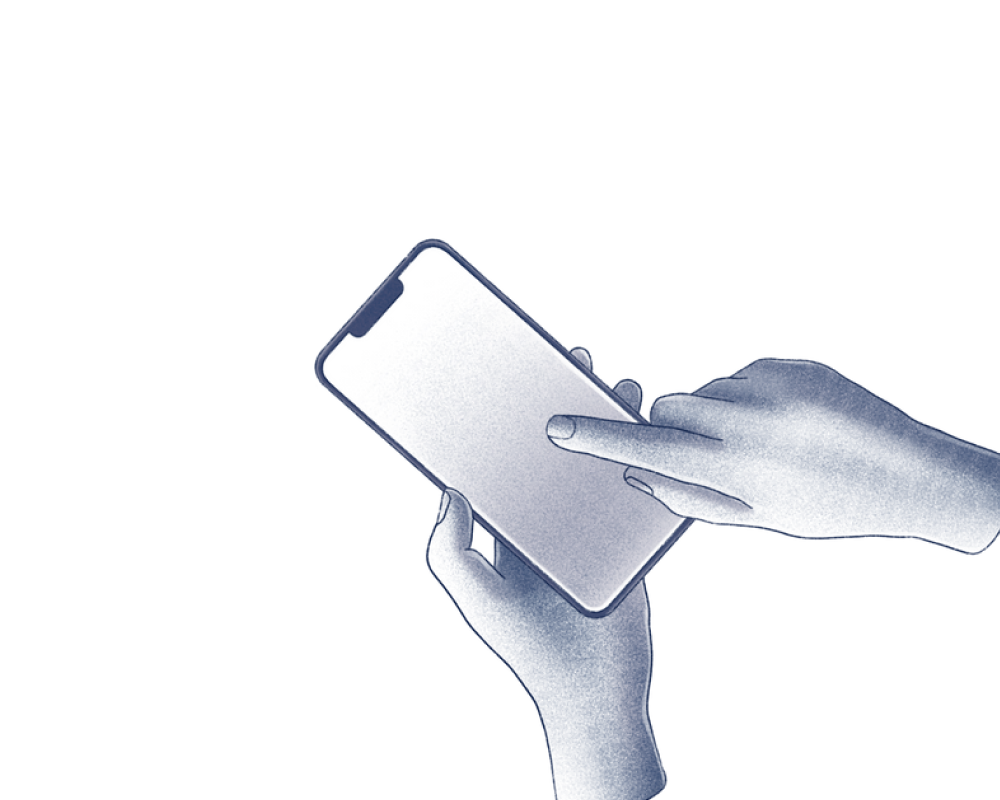
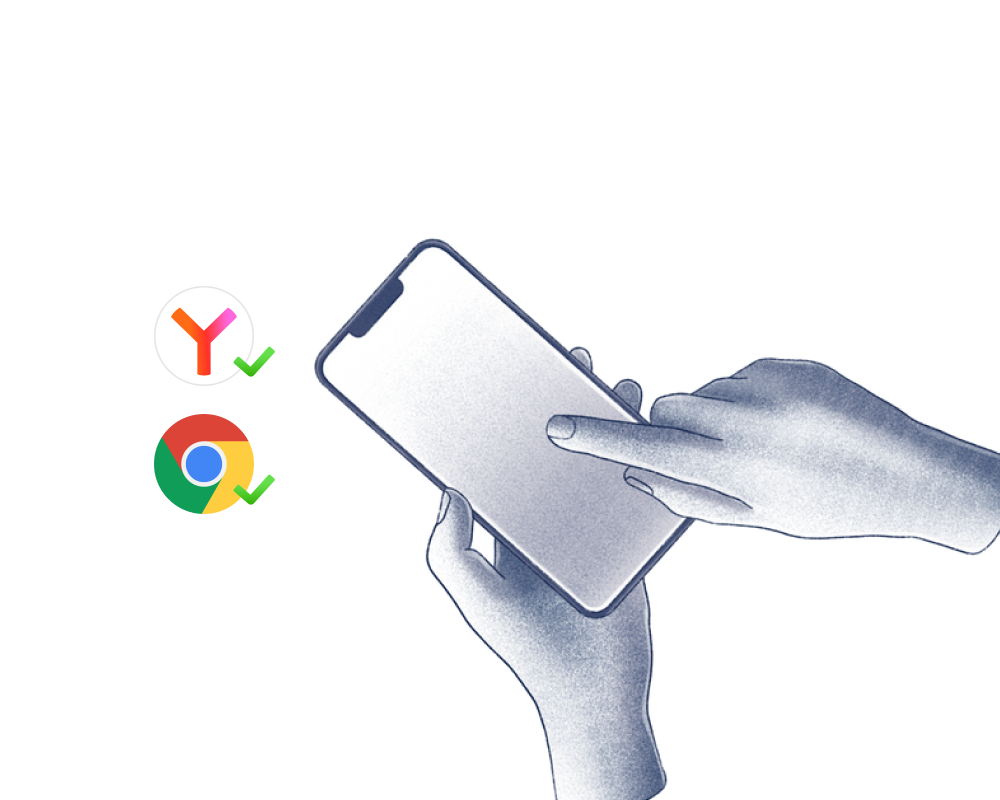
help

Changed region(s): [[0.155, 0.5, 0.279, 0.6562], [0.155, 0.375, 0.279, 0.4688]]

diff --git a/src/app/about/page.tsx b/src/app/about/page.tsx
@@ -26,7 +26,7 @@ export default function About() {
                             Наведением камеры устройства на AR–маркер, отображается 3D–модель, стилизованная под праздник.
                             Такой формат поздравления превращает подарок в настоящее чудо!
 
-                            Все что нужно сделать — это <Link className={styles.link} href="/ar-markers"> выбрать AR–маркер </Link>, распечатать его на бумаге, разместить на носителе, а затем подарить.
+                            Все что нужно сделать — это <Link className={styles.link} href="/ar-markers"> выбрать AR–маркер</Link>, распечатать его на бумаге, разместить на носителе, а затем подарить.
                             После получения подарка, его обладатель сможет <Link className={styles.link} href="/scan">отсканировать</Link> AR–маркер.
                         </p>
                     </div>
@@ -76,6 +76,19 @@ export default function About() {
                             3D-художник: <Link className={styles.link} href="/ar-markers">Спиридонов Иван Владимирович</Link>.
                         </p>
                     </div>
+
+                    <div className={styles.section}>
+                        <h2 className="title-2">
+                            Beta
+                        </h2>
+                        <p className="text">
+                            Рекомендуем использовать Google Chrome / Яндекс Браузер.
+                        </p>
+                        <p className="text">
+                            Не поддерживается Samsung Internet Browser.
+                        </p>
+                    </div>
+
                 </div>
             </div>
             <Footer />
